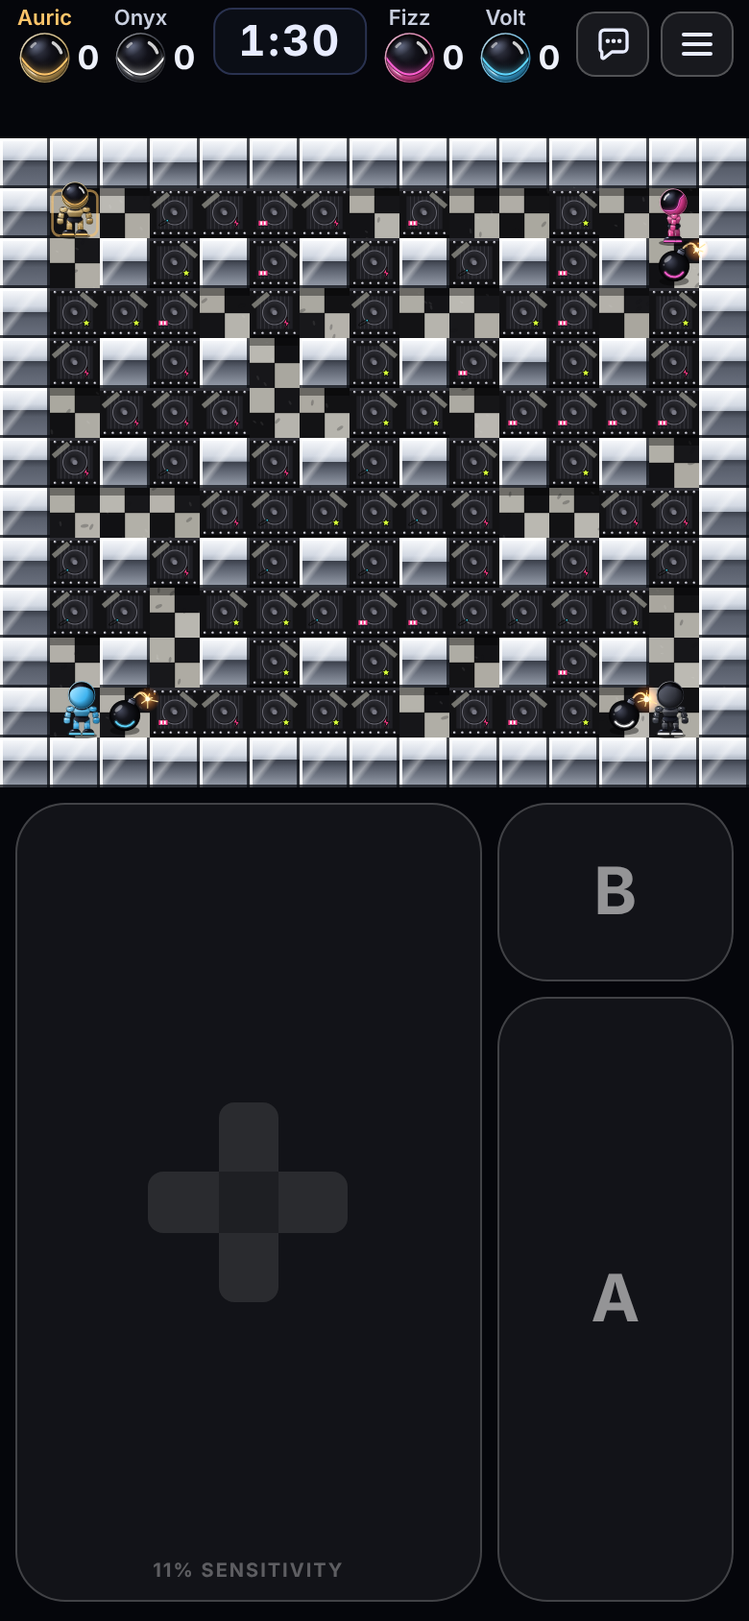
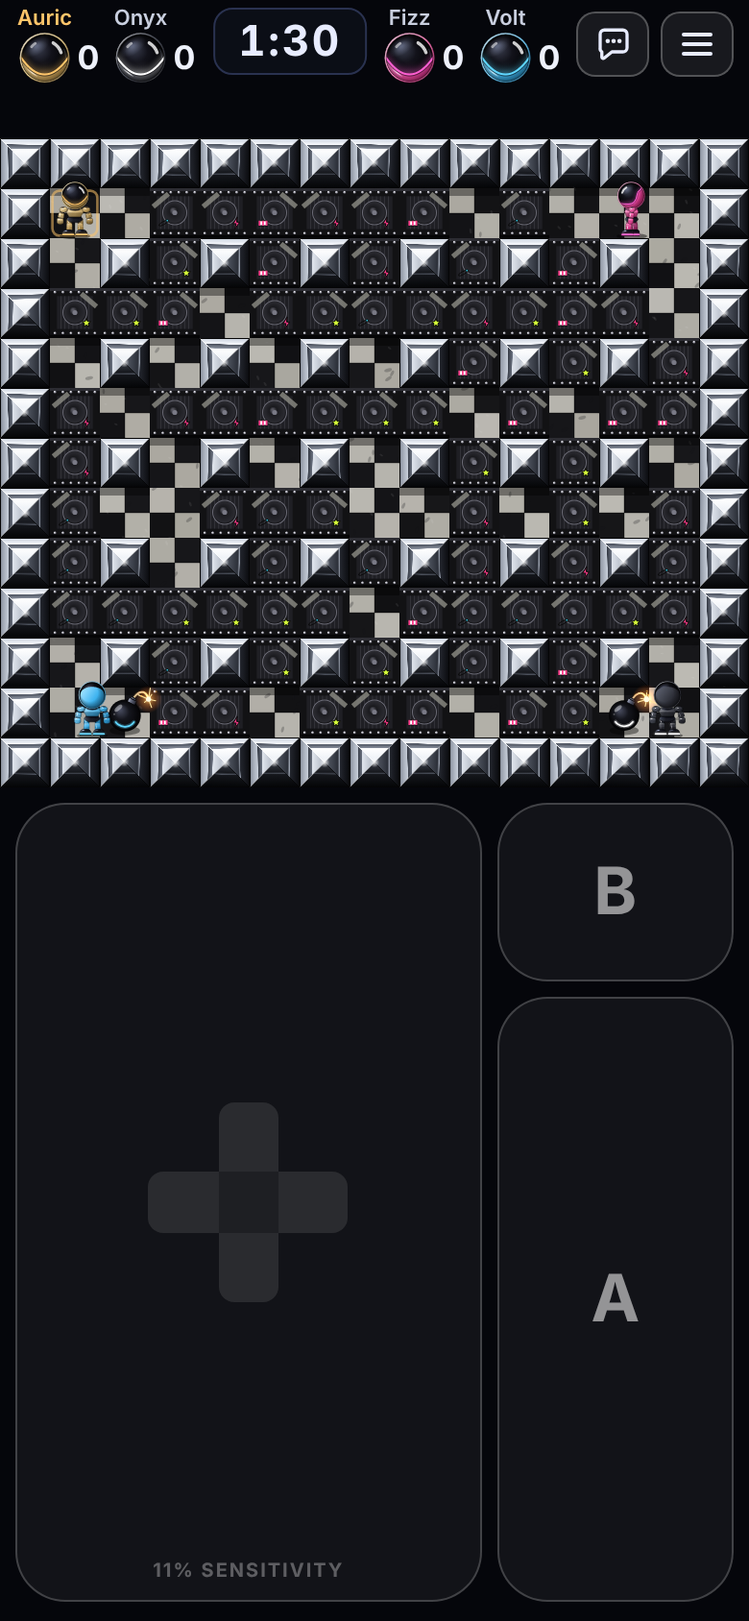
Blackout: solid blocks as mirror-chrome pyramid studs (the owner's reference photo)
Claude-Session: https://claude.ai/code/session_011ftAyXvRsrpHhA2BDxz2ab

Changed region(s): [[0.0, 0.0616, 1.0, 0.4929]]

diff --git a/src/blackout.ts b/src/blackout.ts
@@ -2,8 +2,8 @@
  * Blackout, drawn (the owner's design, 27 November 2026: a pitch black map, a flash of light now and then, a
  * flashlight power-up; black and white tiles, solid blocks as triangular chrome spikes, reflective like a mirror,
  * a punk rock look). Reads the world, never changes it; render.ts calls these:
- * - drawCheck, drawChrome, drawSpeaker: one tile of floor (black and white checks), a solid block (a sleek
- *   mirror-chrome block), a breakable block (a battered speaker cabinet with studs, tape and stickers)
+ * - drawCheck, drawStud, drawSpeaker: one tile of floor (black and white checks), a solid block (a
+ *   mirror-chrome pyramid stud), a breakable block (a battered speaker cabinet with studs, tape and stickers)
  * - drawDark (every frame, over the round, under the planes): the dark itself. Nothing shows but what is lit:
  *   the whole arena while the flash is on (sim.ts `flashLight`), and round each light (`lights`): a flashlight's
  *   3 tiles, a bomb and its burning fuse, a blast, a flashlight lying on the floor. No robot glows, yours
@@ -55,37 +55,68 @@ export function drawCheck(ctx: Ctx, x: number, y: number, px: number, py: number
 // ---------------------------------------------------------------- the solid blocks
 
 /**
- * A sleek chrome block (the owner's ask, 27 November 2026: the spikes he first had were too busy). Mirror chrome
- * is a few smooth bands with one sharp horizon: bright sky reflected above, a dark band below it, the floor's
- * grey at the foot; a thin bright bevel on the top and left edges, a dark one on the bottom and right, and one
- * soft diagonal glint. Nothing else on it.
+ * A chrome pyramid stud (the owner's design, from his reference photo of pyramid studs, 27 November 2026): the
+ * whole block is a square pyramid seen from above, four triangular faces meeting at a point in the middle,
+ * mirror chrome. The light comes from the top left, so the top face is brightest, the left next, the right
+ * dark and the bottom darkest; each face has the hard-edged bands of a mirror (a dark horizon across it), the
+ * ridges up from the lit corners catch a thin white line, and the point has a glint. (A triangle standing on a
+ * studded plate came first, and a flat chrome block for an hour: neither read as a block.)
  */
-export function drawChrome(ctx: Ctx, px: number, py: number, T: number, joined: boolean, deco: number): void {
-  const face = ctx.createLinearGradient(px, py, px, py + T);
-  const h = 0.46 + (deco - 0.5) * 0.04; // (each block's horizon a hair higher or lower)
-  face.addColorStop(0, '#fbfcfe');
-  face.addColorStop(h - 0.12, '#d3d9e3');
-  face.addColorStop(h - 0.005, '#aeb6c3');
-  face.addColorStop(h, '#3a3f4a');
-  face.addColorStop(h + 0.14, '#585e6b');
-  face.addColorStop(1, joined ? '#6c7280' : '#9aa1ae');
-  ctx.fillStyle = face;
+export function drawStud(ctx: Ctx, px: number, py: number, T: number, joined: boolean, deco: number): void {
+  const g = Math.max(1, T * 0.02); // a hairline gap round each stud, so neighbours read as separate blocks
+  const x0 = px + g;
+  const y0 = py + g;
+  const x1 = px + T - g;
+  const y1 = py + T - g;
+  const ax = px + T * (0.5 + (deco - 0.5) * 0.03);
+  const ay = py + T * (0.5 + (deco - 0.5) * 0.03);
+  ctx.fillStyle = '#050506';
   ctx.fillRect(px, py, T, T);
-  // a soft glint across it, top left to bottom right
-  const glint = ctx.createLinearGradient(px, py + T * 0.1, px + T, py + T * 0.9);
-  glint.addColorStop(0.3, 'rgba(255,255,255,0)');
-  glint.addColorStop(0.42, 'rgba(255,255,255,0.4)');
-  glint.addColorStop(0.5, 'rgba(255,255,255,0)');
-  ctx.fillStyle = glint;
-  ctx.fillRect(px, py, T, T);
-  // the bevel
-  const e = Math.max(1, Math.round(T * 0.05));
-  ctx.fillStyle = 'rgba(255,255,255,0.9)';
-  ctx.fillRect(px, py, T, e);
-  ctx.fillRect(px, py, e, T);
-  ctx.fillStyle = 'rgba(10,12,18,0.75)';
-  ctx.fillRect(px, py + T - e, T, e);
-  ctx.fillRect(px + T - e, py, e, T);
+  /** one face, from the middle of its base edge (bx, by) up to the point, banded like a mirror */
+  const face = (pts: number[][], bx: number, by: number, stops: [number, string][]): void => {
+    const grad = ctx.createLinearGradient(bx, by, ax, ay);
+    for (const [o, c] of stops) grad.addColorStop(o, c);
+    ctx.fillStyle = grad;
+    ctx.beginPath();
+    ctx.moveTo(pts[0][0], pts[0][1]);
+    for (const q of pts.slice(1)) ctx.lineTo(q[0], q[1]);
+    ctx.closePath();
+    ctx.fill();
+  };
+  // top: brightest, sky with a sharp dark horizon low down
+  face([[x0, y0], [x1, y0], [ax, ay]], (x0 + x1) / 2, y0, [[0, '#cfd6e1'], [0.22, '#f6f8fc'], [0.23, '#4a505c'], [0.4, '#8a919e'], [0.41, '#ffffff'], [1, '#e8edf4']]);
+  // left: lit, a little darker
+  face([[x0, y0], [ax, ay], [x0, y1]], x0, (y0 + y1) / 2, [[0, '#8f96a3'], [0.3, '#c6cdd8'], [0.31, '#353a44'], [0.48, '#6b7280'], [0.49, '#dfe4ec'], [1, '#aeb5c1']]);
+  // right: in shade, one bright streak
+  face([[x1, y0], [x1, y1], [ax, ay]], x1, (y0 + y1) / 2, [[0, '#0c0d11'], [0.36, '#23262e'], [0.37, '#9aa1ae'], [0.45, '#2c3039'], [1, '#5a606c']]);
+  // bottom: darkest
+  face([[x0, y1], [ax, ay], [x1, y1]], (x0 + x1) / 2, y1, [[0, '#050608'], [0.5, '#15171c'], [0.51, '#4b505b'], [0.6, '#16181d'], [1, joined ? '#2a2d35' : '#3b3f49']]);
+  // the ridges: white up from the lit corner, dark down to the shaded one
+  ctx.lineCap = 'round';
+  ctx.lineWidth = Math.max(1, T * 0.018);
+  ctx.strokeStyle = 'rgba(255,255,255,0.95)';
+  ctx.beginPath();
+  ctx.moveTo(x0, y0);
+  ctx.lineTo(ax, ay);
+  ctx.stroke();
+  ctx.strokeStyle = 'rgba(255,255,255,0.45)';
+  ctx.beginPath();
+  ctx.moveTo(x1, y0);
+  ctx.lineTo(ax, ay);
+  ctx.moveTo(x0, y1);
+  ctx.lineTo(ax, ay);
+  ctx.stroke();
+  ctx.strokeStyle = 'rgba(0,0,0,0.55)';
+  ctx.beginPath();
+  ctx.moveTo(x1, y1);
+  ctx.lineTo(ax, ay);
+  ctx.stroke();
+  // the point's glint
+  const tip = ctx.createRadialGradient(ax, ay, 0, ax, ay, T * 0.1);
+  tip.addColorStop(0, 'rgba(255,255,255,0.85)');
+  tip.addColorStop(1, 'rgba(255,255,255,0)');
+  ctx.fillStyle = tip;
+  ctx.fillRect(ax - T * 0.1, ay - T * 0.1, T * 0.2, T * 0.2);
 }
 
 // ---------------------------------------------------------------- the breakable blocks

diff --git a/src/render.ts b/src/render.ts
@@ -14,7 +14,7 @@ import { TEAMS, type MapId } from './setup';
 export { warmRobots } from './robot';
 import { drawBarrel, drawCrossing, drawLitTnt, drawRails, drawTrain, railWalls } from './railway';
 import { drawFactory, drawFactoryLive, drawMachine, drawBox, drawPlate, boxOnBelt } from './factory';
-import { drawCheck, drawChrome, drawSpeaker, drawDark } from './blackout';
+import { drawCheck, drawStud, drawSpeaker, drawDark } from './blackout';
 import { World, FLOOR, HARD, SOFT, TNT, FLAME_TICKS, DEATH_TICKS, GHOST_TICKS, SHIELD_GRACE_TICKS, FALL_TICKS, TICK_HZ, ItemKind, Player, Bomb, FLY_TICKS_PER_TILE, THROW_TILES, FUSE_TICKS, CARRY_FUSE_TICKS, DX, DY, DROP_TICKS, TURN_STEPS, allies, angelAim, angelReach, perimeterAt, POOF_TICKS, wireSpot, type Decoy, type Wire } from './sim';
 
 export interface BotColor {
@@ -181,7 +181,7 @@ export function setMap(id: MapId): void {
 /** Solid block: fills its whole tile. `joined`: another solid block is right below it (its front is hidden). `deco`: see drawRock. */
 export function drawHard(ctx: Ctx, px: number, py: number, T: number, map: MapId = mapNow, joined = false, deco = 1): void {
   if (map === 'factory') drawMachine(ctx, px, py, T, joined, deco >= 1 ? 0.3 : deco);
-  else if (map === 'blackout') drawChrome(ctx, px, py, T, joined, deco >= 1 ? 0.5 : deco);
+  else if (map === 'blackout') drawStud(ctx, px, py, T, joined, deco >= 1 ? 0.5 : deco);
   else if (map === 'western') drawRock(ctx, px, py, T, joined, deco);
   else if (map === 'ice') drawSnowRock(ctx, px, py, T, joined, deco);
   else drawSteel(ctx, px, py, T);

diff --git a/CLAUDE.md b/CLAUDE.md
@@ -137,7 +137,7 @@ Do not undo these unless asked. The reasons are in `docs/ROADMAP.md` and `docs/C
 - The Wild West's railway and TNT (the owner's design, 25 November 2026; GAME-RULES.md › The Wild West's railway and TNT; `rails`, `tnt` in `WorldConfig`, set by `worldConfig` for the Wild West on every size, online too, `PROTOCOL` 12; 13 since bricks lie on the lines). **Railway**: four lines, two along rows and two down columns, the third from each edge (`railLines`; the owner's pick: four on every size), with bricks on them as anywhere (the owner's pick, the same evening: they were kept clear and the map had about 40% fewer bricks than Midnight; never a barrel, and no robot starts on one), each from a timber-framed tunnel in the outer wall to another; on the outer wall each side of each tunnel a crossing signal (crossbuck, two red lamps, a red and white gate: the owner's "crossing guard on the perimeter block, one on each side, open when safe, closed when unsafe"). **Trains**: about every 10 s (the owner's pick, the same evening; it was about every 15 s; `TRAIN_FIRST` 6 to 10 s, then `TRAIN_GAP` 8 to 12 s after the one before), on a line and a way picked at random from the round's own numbers (`trainSeed`, `trainRand`: every copy of an online round agrees). Its warning: that line's lamps flash in turn, a bell rings twice a second (`BELL_TICKS`), the line pulses red, the gates come down (`GATE_TICKS`), and 2.5 s later (`TRAIN_WARN_TICKS`; the owner: "slightly enough time to get out of the way") the engine comes out of its tunnel, whistling 0.75 s before; it goes 9.4 tiles a second (`TRAIN_SPEED`; the owner: relatively fast), 6.7 tiles long (engine, tender, two coaches: `TRAIN_CARS`). It knocks out every robot it touches (`runTrain`): one counting as standing on a tile of its line (the tile it is ringed on, as for a blast) once the train's front or back is within `TRAIN_NOSE` 0.3 along the line; a robot on the next tile is safe, however close (a reach of 0.7 across the line was tried first: CPU players resting at the edge of a tile beside the line were run over by the dozen); shield or not; never the winner once the round is decided; death cause `train`, "You got run over". It sets off bombs on its line as it reaches them and smashes the bricks on it (they crumble; the power-up one hid is left on the line); power-ups lying on the line are left be. **None runs once the blocks start to fall** (the owner's ask): one is sent only if it will be gone and its gates up before the timer reaches 0:00 (`trainFrom`); none after the round is decided. Drawn in `railway.ts`: an old steam train in detail (diamond stack and smoke, headlight and its beam, brass bands and domes, turning drive wheels and rods, a red tender heaped with coal, two green coaches with lit windows), from the side along a row (among the robots by row), from above down a column, darkening into its tunnels. **TNT**: one brick in ten is a red barrel with TNT on its label (`TNT` tile 3, `TNT_SHARE`, taken from bricks hiding nothing, off the railway), a block like a brick. A blast reaching it stops there and sets it off 0.13 s later (`lightTnt`, `TNT_FUSE_TICKS`; a plane's bomb landing on it too); its blast runs every way until the outer wall, a solid block or a brick, which it does not break (the owner's pick, asked: it stops at the brick), setting off bombs and barrels it reaches (`tntBlast`), in plain orange fire whoever set it off (`Flame.tnt`; the owner's ask), and it counts as the blast of whoever set it off (`LitTnt.owner`; Claude's pick, so a player can use it: kill credit, friendly fire, cause `tnt`, "Caught in a TNT blast Volt set off"). A falling block crushes a barrel, lit or not. Sounds: `bell`, `train`, `tnt` (Trains and TNT). The menu's Key shows the signal and a barrel on this map; no tip when a train comes (the owner's ask, 27 November 2026: no map shows a tip about itself). CPU players see a train once its warning starts (a slow level up to `TRAIN_NOTICE` 40 ticks later; never before, not even in a try-out: `seenCopy`), know it sets off bombs and smashes bricks on its line, and see where a barrel's blast reaches (`dangerMap`, `blastTiles`); where a thrown bomb lands counts another in the air that lands first (`landing` in `foresee`, every map); their try-outs count a move that needs the shield to take a blast as failing (`playOut`, the same day: a Hard on the Wild West kicked and bombed itself into a corner that only its shield made look safe). The numbers (speed, warning, gap, share of barrels) are Claude's, to be play-tested.
 - Frozen Lake's ice (the owner's design, 25 November 2026: "players slide slightly even after they turn to go the opposite direction; when bombs are thrown, they land then slide; a bomb that slides into the wall might bounce back, depending on how fast it's going"; GAME-RULES.md › Frozen Lake's ice; `ice` in `WorldConfig`, set by `worldConfig` for the map on every size, online too, `PROTOCOL` 14; 15 since it was made more slippery). **Robots**: letting go, or turning back the way they came, they slide on along their lane, losing `ICE_GRIP` 0.0024 of their speed every tick until they stop (`glide`, `iceMove`, `Player.slip`, `slipDir`), so the slide grows with the square of the speed and each speed power-up adds more than the one before: 0.36 of a tile at the starting speed, 0.51, 0.70, 0.92, 1.16, 1.43, 1.74 at top speed (the owner's ask, 26 November 2026: more slippery, and more with every speed boost; it kept `ICE_DRAG` 0.84 of its speed a tick, 0.20 to 0.47 of a tile); turning back, they slide first, looking the new way, then walk back; a block or bomb ahead stops them in the middle of their tile. Turns to the side and starting off are as on any map (not asked for). Drawn with the feet still, leaning back against the slide, kicking up frost (`Player.skid`, `drawFrost`). **Bombs**: a thrown one lands as anywhere, then slides on the way it was thrown at `ICE_LAND_SPEED` 0.075 (3.6 tiles; it was 0.065, two tiles); a kicked one starts at `KICK_SPEED`; on ice every sliding bomb loses `ICE_FRICTION` 0.0007 a tick (a kick goes 13.6 tiles; it was 0.001, nine) and, slowed to `ICE_CRAWL` 0.025, stops in the middle of the next tile (`slideBomb`, shared with the CPU players, `Bomb.speed`). Stopped by anything (block, brick, bomb, barrel, robot) at `ICE_BOUNCE_MIN` 0.05 or faster, with the tile behind it free, it bounces back at `ICE_BOUNCE` half its speed (event `bounce`, Lift and land's sound); slower, it stops. The numbers are Claude's, to be play-tested. No tip about the map at the start (the owner's ask, 27 November 2026: no map shows one); the menu's Key has an Ice row. CPU players (`bot.ts`): they let go early so the slide ends in the middle of the tile (`steer`, `coastTo`, `iceSlide`; before, they slid past and back for ever), play the last straight stretch of a way as it really goes, walking, letting go, sliding on (`legOk`, in `pathOk`, `escapeTargets` and goals), do not drop a bomb where a sliding bomb a robot stopped or bounced back could set it off (`slideMayReach`; on every map since 26 November 2026), know turning back slides first (`stepTimes`, `glideEnd`) and that a blast coming where they are sliding to is urgent, follow a sliding bomb with the rules' own `slideBomb` (`slid` in `foresee`), with a blast it slides into setting it off where it is then (`path` in `dangerMap`, every map), do not count a sliding bomb as in their way until it stops (`wallsOf`, ice only: counting its tile, or where it would stop, each shut one in), and on ice, boxed in with no way they can see, play the nearest ways out forward on a copy of the world (`lastDitch`, `wayAround`), and re-check a kick or throw under way every 6 ticks, taking another way if it no longer works and one does (`scriptOk`).
 - The Factory's conveyor belts (the owner's design, 26 November 2026, his picks asked one by one: conveyor belts, crossing, horizontal and vertical, fitting each size; medium speed; turning round now and then after a warning; robots and bombs ride, power-ups do not; GAME-RULES.md › The Factory's conveyor belts; `belts` in `WorldConfig`, set by `worldConfig` for the Factory on every size, online too, `PROTOCOL` 16). Four belts on the railway's lines (`beltLines` from `railLines`: the third row and column from each edge, so no robot starts on one), crossing at four points (tables of rolling balls), from a drive in the outer wall to another; at the start they run round like a clock's hands. Boxes sit on them as anywhere (Claude's pick, after the Wild West's rails, where the owner wanted the bricks back), drawn on the tread between the belt's frame so the belts still show (`boxOnBelt`); they do not ride. A belt carries a robot standing or walking on it at `BELT_SPEED` 0.021875 (1.31 tiles a second; with it 3.9 at the start, against it 1.2) along the lane it is in (`beltDir`, `beltCarry`; through a crossing the way it came, `Player.ride`); walking across one it is not dragged; lined up with an opening it has asked to step off through, it is let go (without that a robot could never leave a belt sideways: it lined up and was carried off the opening every tick); a block, box or bomb ahead stops it in the middle of its tile; a robot flying a plane is carried too. A bomb on a belt rides it the same (`beltBomb`, `Bomb.ride`), waiting at anything in its way, robots included. Power-ups stay put. Every 15 to 20 s (`BELT_FIRST`, `BELT_GAP`, from the round's own numbers, `beltSeed`) they all turn round (`beltClock`, `World.beltWay`, `beltFlip`): 2 s before (`BELT_WARN_TICKS`) the beacons on the drives flash in turn, the arrows flash amber and an alarm buzzes twice a second (`alarm`), the last half second the belts stand still (`BELT_STOP_TICKS`), then they run the other way (`reverse`, a clunk). They keep going while the blocks fall and stop once the round is decided. Drawn in `factory.ts` (`drawFactory` with the floor, `drawFactoryLive` each frame, the treads stamped from a picture with an offset from `World.beltRun`). Sounds: `alarm`, `reverse` (Factory belts). The menu's Key has a Conveyor belt row; no tip about the map (the owner's ask, 27 November 2026). CPU players (`bot.ts`): steps timed with the belt's help or against it (`beltStepTimes`, `beltPush`), the turn seen once the alarm starts (`beltsThen`), a bomb on a belt, or about to be dropped on one, followed to where it goes off (`slid` with the rules' `beltBomb`) and where it will be on the way (`occ` in `Danger`: no stepping onto a tile it will be on, no waiting where it is coming; a Normal was shut in by its own bomb riding into its way out), a robot standing still in its way taken as holding it up (`standing` in `slid`: that blast counts too, setting nothing else off; a Beginner was caught by its own bomb held up behind one), standing still on a belt by walking against it while making up their mind, never flying a plane from a belt (a Normal was carried into its own blast), and dropping a bomb only where the rules will drop it: after this tick's move, which a belt may carry onto the next tile (`placeBomb` plays it with `walkRobot`; a Hard's bomb was dropped a tile on and rode into its way out). The numbers are Claude's, to be play-tested.
-- Blackout (the owner's design, 27 November 2026, his picks asked; GAME-RULES.md › Blackout; `dark` in `WorldConfig`, set by `worldConfig` for the map, online too, `PROTOCOL` 19): pitch black, the map drawn in `blackout.ts` (black and white checks four to a tile, `drawCheck`; sleek mirror-chrome blocks for solid blocks, `drawChrome`, smooth bands with one sharp horizon, a thin bevel and a soft glint (the owner's ask the same afternoon: the triangular chrome spikes on studded plates he first had were too busy); battered speaker cabinets with studs, gaffer tape and a sticker for bricks, `drawSpeaker`; a punk look). Nothing shows but what is lit (`drawDark`, over the round and under the planes, a half-resolution layer with soft holes): the lights on at the start, out over 1.5 s (`LIGHTS_OUT`); a flash every 5 s for 0.7 s (`FLASH_EVERY`, `FLASH_TICKS`; his ask the same afternoon: it was every 8 s for half a second, his first pick; `PROTOCOL` 20), event and sound `flash` (group Blackout); a flashlight's 3 tiles, warmed; every bomb with its fuse (`BOMB_GLOW`) and blast (`FLAME_GLOW`), flickering; a flashlight on the floor faintly. No robot glows, yours included (his pick: only the power-up, the flash and bombs light it). Lit again once the round is decided. The **flashlight** (`torch` kind, last in the list but not in `ITEM_WEIGHT`, so other maps' arenas are unchanged; `withTorches` adds `TORCH_CHANCE` 4% on top, `TORCH_SURE` 2 made sure of; `Player.torchTicks`, `TORCH_TICKS` 15 s, `TORCH_REACH` 3, his picks; not in Custom power-ups; Key rows Flash and Flashlight; Your kit; first-time tip). CPU players blind (his pick): `inView(world, bot)` gives only rivals lit (`isLit`) or seen in the last `SEEN_FOR` 3 s (at the last place seen, `Bot.seen`), in hunting, kicking, trapping, flying and as angels; their safety checks still use every robot; every change only on `world.dark`. `DARK=1` for `experiments/cpu-matches.ts`. Falling blocks come in the dark like everything else (not asked about: ask the owner if a warning light is wanted). The numbers are Claude's or the owner's as said, to be play-tested.
+- Blackout (the owner's design, 27 November 2026, his picks asked; GAME-RULES.md › Blackout; `dark` in `WorldConfig`, set by `worldConfig` for the map, online too, `PROTOCOL` 19): pitch black, the map drawn in `blackout.ts` (black and white checks four to a tile, `drawCheck`; mirror-chrome pyramid studs for solid blocks, `drawStud`, from the owner's reference photo of pyramid studs: the whole tile a square pyramid seen from above, four banded faces lit from the top left, white ridges, a glint at the point (a triangle on a studded plate came first and did not read as a block; a flat chrome block for an hour was a misunderstanding); battered speaker cabinets with studs, gaffer tape and a sticker for bricks, `drawSpeaker`; a punk look). Nothing shows but what is lit (`drawDark`, over the round and under the planes, a half-resolution layer with soft holes): the lights on at the start, out over 1.5 s (`LIGHTS_OUT`); a flash every 5 s for 0.7 s (`FLASH_EVERY`, `FLASH_TICKS`; his ask the same afternoon: it was every 8 s for half a second, his first pick; `PROTOCOL` 20), event and sound `flash` (group Blackout); a flashlight's 3 tiles, warmed; every bomb with its fuse (`BOMB_GLOW`) and blast (`FLAME_GLOW`), flickering; a flashlight on the floor faintly. No robot glows, yours included (his pick: only the power-up, the flash and bombs light it). Lit again once the round is decided. The **flashlight** (`torch` kind, last in the list but not in `ITEM_WEIGHT`, so other maps' arenas are unchanged; `withTorches` adds `TORCH_CHANCE` 4% on top, `TORCH_SURE` 2 made sure of; `Player.torchTicks`, `TORCH_TICKS` 15 s, `TORCH_REACH` 3, his picks; not in Custom power-ups; Key rows Flash and Flashlight; Your kit; first-time tip). CPU players blind (his pick): `inView(world, bot)` gives only rivals lit (`isLit`) or seen in the last `SEEN_FOR` 3 s (at the last place seen, `Bot.seen`), in hunting, kicking, trapping, flying and as angels; their safety checks still use every robot; every change only on `world.dark`. `DARK=1` for `experiments/cpu-matches.ts`. Falling blocks come in the dark like everything else (not asked about: ask the owner if a warning light is wanted). The numbers are Claude's or the owner's as said, to be play-tested.
 - Online lobby (the owner's asks, 23 November 2026): each person's card has a dot at its top left, green while they are connected, grey while away (`presence` in lobby.ts, `.presence` in page.html; it pops in the first time). Leaving the app for a while keeps your place: away 10 minutes in the lobby and across the end of a match (`AWAY_MS`; it was 45 s, and anyone away at a match's end was let go), a host 2 minutes before the room is handed on (`HOST_AWAY_MS`; it was 12 s), the page trying again for 5 minutes of being in view and at once on coming back (`wake` in online.ts, from `visibilitychange` and `pageshow`), and the room waking itself every 20 s while everyone is away (`AWAKE_MS`, an alarm in worker.ts). A friend joining in a CPU player's robot moves the CPU player to a free colour (it kept it: two of one robot). The plane can be steered online (`IN_ALL` was not a mask and wiped the aim; `PROTOCOL` 9).
 - Modes (the owner's ask, 23 November 2026): four bubbles under the map's panel, in one straight row that scrolls sideways, about three in view, its edges fading where there are more (`.mode-pick`, `modeEdges`; the lit one is brought into view when it changes, `showLitMode`; the owner's ask, 24 November 2026: it was two rows of two), headed Mode, above the rules (`MODES`, `modePick`): **Classic** (the default rules), **Item Drop** (added 24 November 2026, the owner's design: Classic with Power-up density 20%, `ITEM_DROP_SHARE`, and **Item drop** on: a switch in the Arena group under Power-up density, `setup.itemDrop`, `WorldConfig.itemDrop`; a robot knocked out, a lost life included, drops every power-up it collected that round (above its start: bombs, flames, speed; the boot, glove and a laptop not flown, those nearest) one to a tile on the open floor round where it fell, up to 4 tiles out (`dropKit`, `DROP_REACH` in sim.ts), for anyone to pick up; `itemDropRules`; Random switches it on 30% of the time), **Hardcore** (Classic, but everyone starts with 8 bombs, a blast of 8 and top speed, and the glove half as common: Custom power-ups with the glove at Rare (it was at **Very rare**, a How often step added for it, `ITEM_VERY_RARE`, a quarter of its share, for an evening; the owner then asked for half), and a kind at Rare or Very rare is never made sure of, `sure` in WorldConfig, `PROTOCOL` 10; a setup saved before has its steps moved up one, `SETUP_VERSION` 8; the owner's ask the same evening, after the first version, which also packed bricks, made every brick a power-up and closed in Fast, was too hardcore) and **Random** (rules picked at random and shown in the rules, not just "random": picked again on Rematch, Restart and coming back to the lobby, and on another tap; `rollRules`, `randomRules`, `rolledKey`; online the server picks, `newScore`, `toLobby`). Rounds to win is kept by all three. A rule changed by hand: Custom, no bubble lit (`modeOf`, `settleMode`). GAME-RULES.md › Set in the lobby has the numbers.
 - Online play (built November 2026; `docs/ONLINE.md`): rooms by four-letter code, made from Title › Online; a link with `?room=CODE` opens the join panel; the lobby's share button sends that link. The lobby is the same lobby, with the other people in the room as player cards (`Guest.remote`; P1 the host, then people in joining order, then CPU players). The host is always P1 (the owner's rule, 25 November 2026): the room's maker; when the host leaves or is handed over, the next in line still here hosts and moves to P1, the rest keeping their order (`makeHost` in room.ts: it puts the new host at the front of `members`; until then a host handed over after 2 minutes away stayed P1 while the new host was P2). Each person picks their robot and presses Ready on their own screen. The host (whoever made the room) sets the CPU players and the rules; the others see the Match page read-only (`inert`). Only the host starts, and is asked first if someone is not ready. A room needs someone to play against, a CPU player or a person. The round cannot be paused: the menu opens and the round goes on behind it (the owner's choice). Only the host has Restart (the whole match, for everyone), Leave to match settings and Leave to the lobby (the match ends for everyone, all back to the lobby), and Next round, Rematch and Lobby at the end of a round; the others see who starts it. Everyone has Leave the room. Online, rounds are played out (no random winner when you are out). A dropped connection keeps its place and comes back into the round; a reload goes straight back in; a host gone 2 minutes hands the room on. The server runs the round and sends every page each tick's inputs; pages step their own copy of its world, with a checksum every half second (`worldHash`). What is drawn is a picture run ahead of that world (`predict.ts`; built after the owner found the first version laggy and jerky, and asked for it to be smooth): your robot moves the frame you press, presses say which tick they are for and the server keeps them until then, the page's clock runs ahead by the trip there and back (pings twice a second), and the other robots are drawn where the server last said, a few ticks back, never guessed at. Scores and results come only from the server's world. The menu shows the ping. Do not go back to drawing the server's world as it arrives, or to holding ticks back to step them evenly: that was the lag and the stutter. Your own setup and robot on this screen are kept aside while in a room and come back when you leave. Couch play is for this screen only, not online.

diff --git a/docs/ROADMAP.md b/docs/ROADMAP.md
@@ -255,7 +255,7 @@ The rules were written with this in mind from the start: they use no browser fea
 - 26 November 2026 (the owner's design, his picks asked one by one): a fourth map, the **Factory** (docs/GAME-RULES.md › The Factory's conveyor belts). The look: the night shift, dark steel floor plates, yellow and black hazard stripes, the orange glow of two furnaces in the side walls; machines for solid blocks (four kinds, with small blinking lights); cardboard boxes to break. The rule: four conveyor belts, two along rows and two down columns on the railway's lines, crossing at four points (he asked for several belts crossing, fitting each size); they carry robots and bombs, not power-ups, at 1.3 tiles a second (his pick: medium; against one, about half speed at the start), and every 15 to 20 s, after a 2 s warning (beacons, amber arrows, an alarm; the last half second they stand still), they run the other way (his pick). Boxes sit on the belts as anywhere (Claude's pick, as he wanted the bricks back on the Wild West's lines), drawn between the belt's frame so the belts still show. Walking across a belt does not drag you; lined up to step off it at an opening, it lets you go (play-testing the CPU players found a robot could not otherwise leave a belt sideways). The CPU players time their steps with the belts, follow bombs riding them (and where they will be on the way, and where a robot standing in the way would hold one up), hold still on a belt by walking against it and never fly a plane from one. Sounds: the alarm and a clunk as they turn (Settings › Sound › Factory belts); a Key row and a first-time tip. Online `PROTOCOL` 16. The numbers are Claude's, to be play-tested.
 - 26 November 2026 (the owner's design, his picks asked): two new power-ups, the **decoy** and the **trip wire** (docs/GAME-RULES.md › Decoy, Trip wire). Decoy: two copies of the robot that picks it up appear beside it and copy its moves, one the same way, one the opposite way (his pick), so rivals cannot tell which is really it; a blast pops one in a puff of smoke, otherwise they vanish after 15 s (his pick). On your own screen yours are a little see-through, so you can tell; the CPU players cannot. Trip wire: B, standing between two solid blocks, strings it across the gap (a visible wire between the blocks, his words); anyone who walks into it, the one who strung it too (his pick), sets it off, and its blast runs the whole lane both ways to the walls, through every brick (his pick: nothing stops it). Claude's picks: a bomb's blast does not set it off (only walking into it); a falling block crushes it and the train tears it away; up to 3 held; both very rare (like the shield) but every arena has one of each; CPU players never walk into one and string theirs behind them as they walk through a gap, Hard only on its way to a rival, never into a pocket with no room beyond. B does, in order: throw, string a wire (where one can go), fly the laptop's plane, lift. Sounds in a group of their own (Settings › Sound › Decoys and trip wires); Key rows and first-time tips. Online `PROTOCOL` 17. The numbers are Claude's, to be play-tested. The rules do not stop a robot at a wire (a shut turn walks it on, ice slides it, a belt carries it), so near one a CPU player plays its move forward on a copy of its robot with the rules' own walking first (`wireGuard`, `walkRobot`); and in the Factory a CPU player drops a bomb only where the rules will drop it, after the belt has moved it that tick (a Hard's bomb was dropped a tile on and rode into its way out).
 - 26 November 2026 (the owner): the **Level** ‹ › on a CPU player's card goes round: › past Hard is Beginner again, ‹ before Beginner is Hard (it stopped at each end; `levelRow` in lobby.ts).
-- 27 November 2026, later (the owner): Blackout's solid blocks are sleek mirror-chrome blocks (the spikes were too busy), and the flash comes every 5 s for 0.7 s (it was every 8 s for half a second).
+- 27 November 2026, later (the owner): Blackout's solid blocks are mirror-chrome pyramid studs filling the tile, from his reference photo (the triangle on a plate did not read as a block; a flat chrome block for an hour was a misunderstanding), and the flash comes every 5 s for 0.7 s (it was every 8 s for half a second).
 - 27 November 2026 (the owner's design, his picks asked): a fifth map, **Blackout**: pitch black, a flash every 8 s for half a second, a flashlight power-up (15 s, 3 tiles), only flashlights, bombs and blasts lighting the dark, no robot glowing; black and white checks, chrome spikes, speaker cabinets; CPU players blind too (docs/GAME-RULES.md › Blackout).
 - 27 November 2026 (the owner's two bug reports): the touch controls no longer hang on to a finger the phone lost track of. A lost thumb made the pad ignore new swipes (the robot kept pushing the last way, looking stuck between two bombs), and a lost A dropped a bomb on the first tick after Restart. docs/CONTROLS.md › Fingers the phone loses track of.
 - 27 November 2026 (the owner): **YOU WON!**, a plain win animation for every other match you win, on this screen and online: gold letters and a few fireworks over the arena for 2.6 s, then the result panel (`playWon` in `src/hail.ts`).

diff --git a/docs/GAME-RULES.md b/docs/GAME-RULES.md
@@ -345,13 +345,13 @@ The numbers are Claude's, to be play-tested.
 
 *`dark` in the round's config (the Blackout map); `flashLight`, `lights`, `isLit`, `withTorches` in sim.ts; drawn in blackout.ts (the owner's design, 27 November 2026, his picks asked)*
 
-- **Pitch black.** The map is drawn (black and white checks, sleek mirror-chrome blocks for solid blocks, speaker cabinets to break) but nothing shows unless it is lit. No robot glows, yours included (the owner's pick).
+- **Pitch black.** The map is drawn (black and white checks, mirror-chrome pyramid studs for solid blocks, speaker cabinets to break) but nothing shows unless it is lit. No robot glows, yours included (the owner's pick).
 - **The flash:** the lights are on as the round starts and go out over its first 1.5 s; then every **5 seconds** a flash lights the whole arena for **0.7 seconds** (`FLASH_EVERY`, `FLASH_TICKS`; the owner's ask, 27 November 2026: it was every 8 s for half a second), with a crack and a buzz (sound `flash`, group Blackout). Once the round is decided the lights come back on.
 - **What lights the dark:** a flashlight (3 tiles round its robot), every bomb and its burning fuse (`BOMB_GLOW` 1.2 tiles), every blast (`FLAME_GLOW` 1.6 tiles), and a flashlight lying on the floor (a faint glow, so it can be found). The planes fly over the dark, so their pilots can steer.
 - **Flashlight** (power-up, Blackout only): lights **3 tiles** round you for **15 seconds** (`TORCH_REACH`, `TORCH_TICKS`); another one starts the 15 s again. A brick hides one 4% of the time on top of the usual mix (`TORCH_CHANCE`, as far as there is room), and every arena has at least two (`TORCH_SURE`), unless Power-up density is 0%. Not in Custom power-ups. Your kit in the menu shows its seconds; a one-line tip the first time.
 - **CPU players are blind too:** they see a rival only while it is lit (`isLit`), and go after where they last saw it for 3 s (`SEEN_FOR` in bot.ts); they know the map and every bomb. Run with `DARK=1` in front of `experiments/cpu-matches.ts`: "blasted itself" 0 in every run (27 November 2026).
 
-<img src="screenshots/play-blackout.png" width="300" alt="Blackout as the round starts, lights on: black and white checks, chrome blocks, speaker cabinets"> <img src="screenshots/play-blackout-dark.png" width="300" alt="Blackout in the dark: only a flashlight's circle round your robot and a glowing bomb show">
+<img src="screenshots/play-blackout.png" width="300" alt="Blackout as the round starts, lights on: black and white checks, chrome pyramid studs, speaker cabinets"> <img src="screenshots/play-blackout-dark.png" width="300" alt="Blackout in the dark: only a flashlight's circle round your robot and a glowing bomb show">
 
 ## Winning
 
